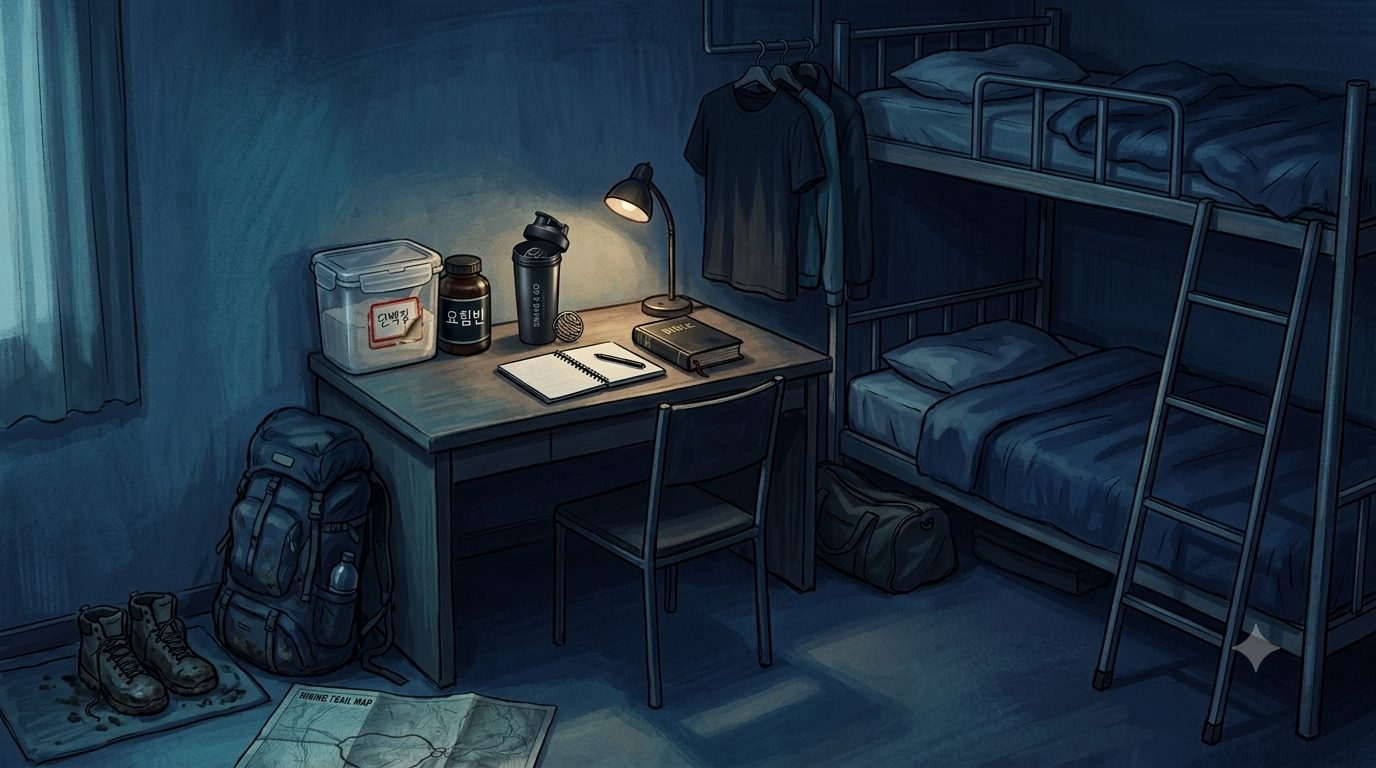
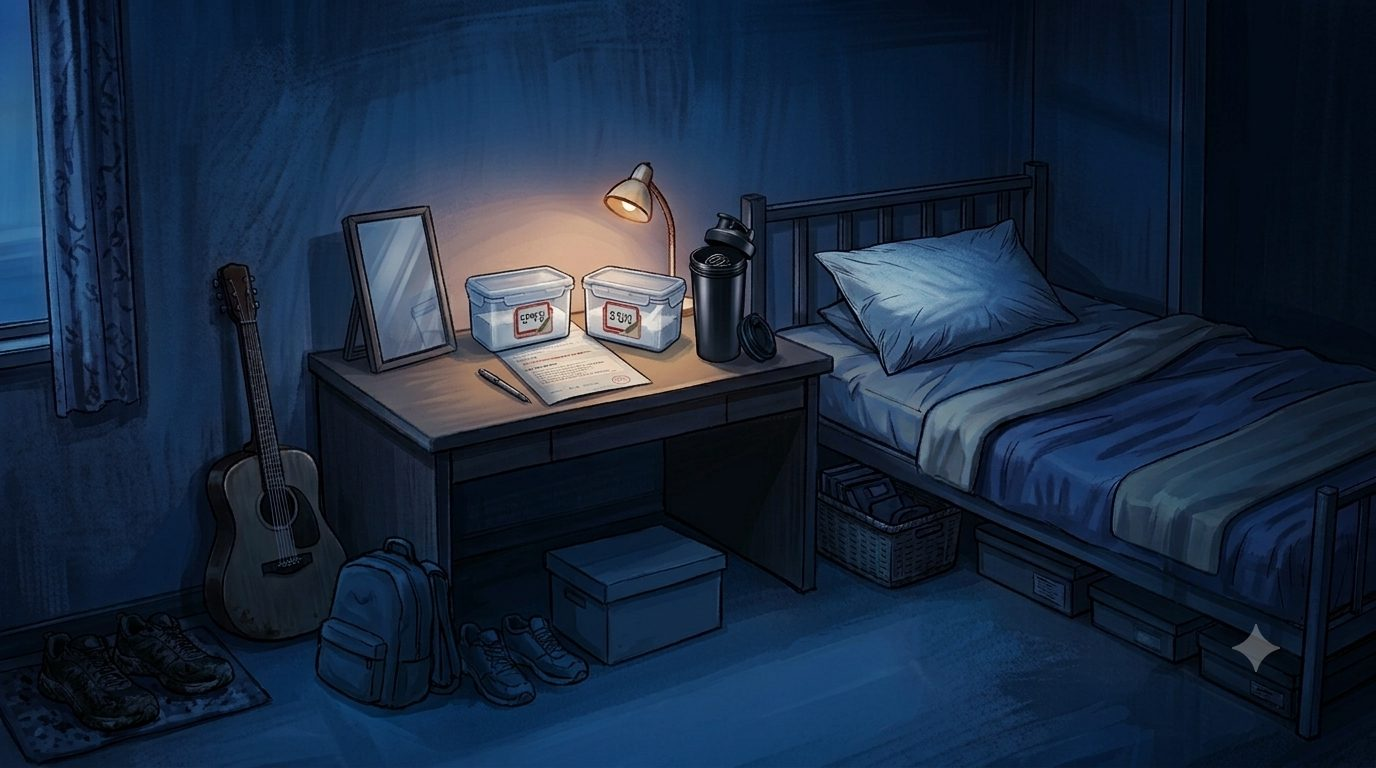
feat(solo): 방 진입 인물 확대 + 종현방 요힘빈 통·목사방 증거표식 수정
- SceneView 방 진입 인물 스탠딩 확대(150→240px) — 너무 작던 문제 해소
- 종현방 재생성: 요힘빈 통을 단서 이미지처럼 반투명 플라스틱 밀폐용기(빨간 라벨)로
  수정(기존 갈색 병 오류) — 단백질 통과 동일 형태, 라벨만 다름
- 목사방 재생성: 바닥 노란 삼각 증거표식·기타 잔상 제거(문쪽 통제테이프만 유지)
- SW 캐시 v10

diff --git a/src/solo/SoloApp.jsx b/src/solo/SoloApp.jsx
@@ -548,7 +548,7 @@ function SceneView({ location, collectedSet, roomSuspect, collectedClues, lab, o
       {roomSuspect && onTalk && (
         <button className="s-figure" onClick={() => onTalk(roomSuspect.id)} aria-label={`${roomSuspect.name}과 이야기한다`}>
           <span className="s-figure-tip">💬 이야기를 한다</span>
-          <StandingFigure sid={roomSuspect.id} person={roomSuspect.name} image={roomSuspect.image} height={150} fallbackSize={76} />
+          <StandingFigure sid={roomSuspect.id} person={roomSuspect.name} image={roomSuspect.image} height={240} fallbackSize={110} />
           <span className="s-figure-lab">{roomSuspect.name}</span>
         </button>
       )}

diff --git a/public/sw.js b/public/sw.js
@@ -1,6 +1,6 @@
 // 서비스워커 — 오프라인 실행용(런타임 캐시, 앱셸 폴백).
 //   프로덕션에서만 등록됨(main.jsx). 개발(HMR)에는 등록 안 함.
-const CACHE = 'morningdew-solo-v9';
+const CACHE = 'morningdew-solo-v10';
 const SHELL = ['/solo.html', '/manifest.webmanifest', '/icon.svg', '/favicon2.png'];
 
 self.addEventListener('install', (e) => {
